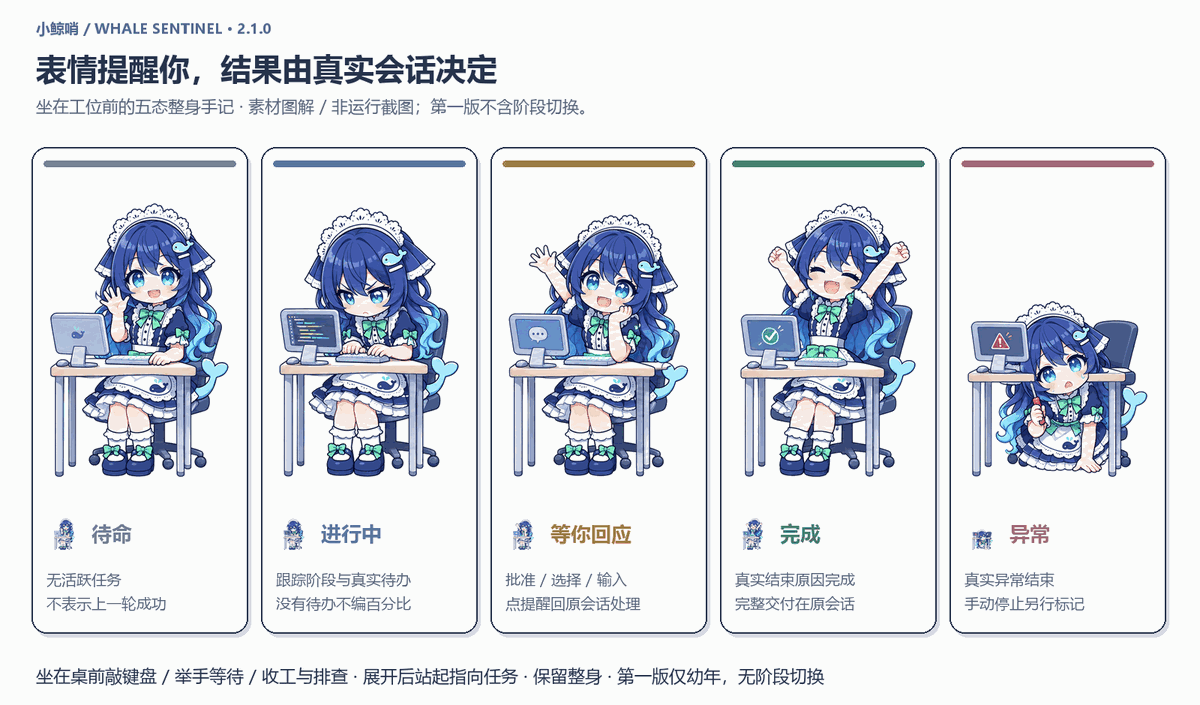
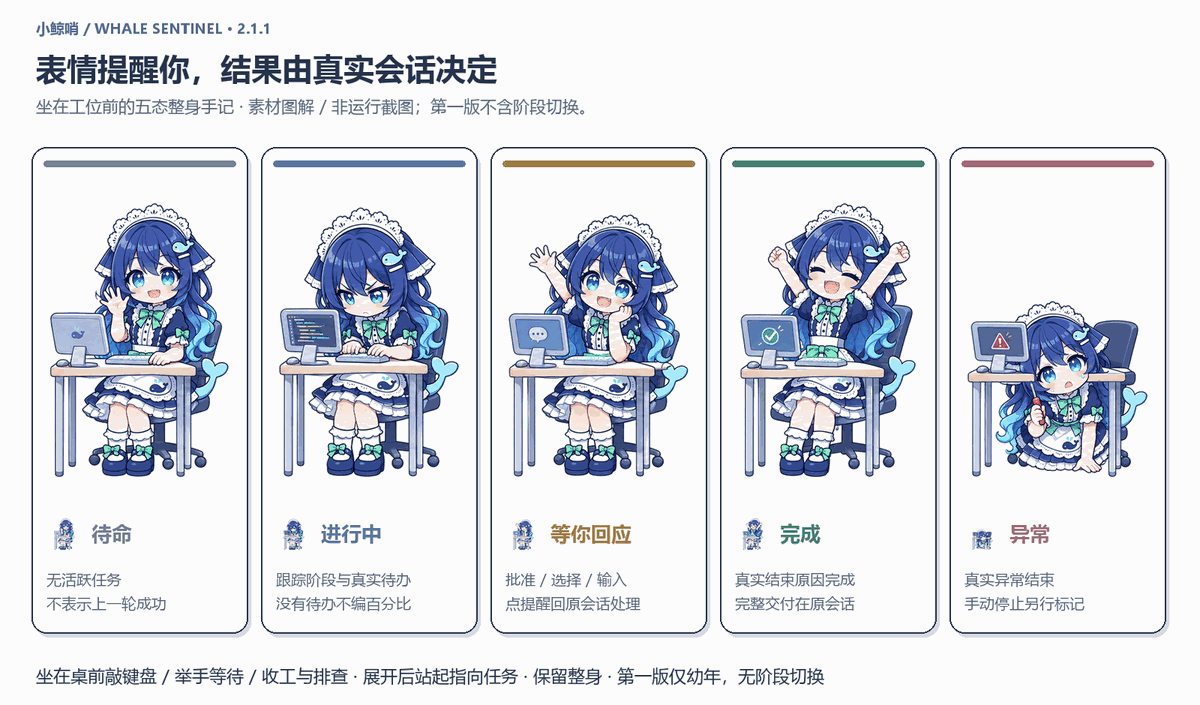
小鲸哨 2.1.1：修复深色主题等待卡浅底浅字，进行中会话不再在最近动态重复

Changed region(s): [[0.8633, 0.5617, 0.8942, 0.5929], [0.5242, 0.4681, 0.555, 0.4993]]

diff --git a/client.js b/client.js
@@ -914,7 +914,7 @@ window.__ModuleLoader__.load({
 .dpg-row-mark[data-kind="waiting"]{background:var(--butter)}
 .dpg-go{display:grid;place-items:center;width:30px;height:30px;border:3px solid var(--ink);border-radius:9px;background:var(--card);color:var(--ink);box-shadow:2px 2px 0 rgba(34,48,79,.26)}
 .dpg-row-title{font-size:14px;font-weight:800;line-height:1.3;word-break:break-word}
-.dpg-task[data-waiting="true"]{background:#FFFBF0}
+.dpg-task[data-waiting="true"]{background:color-mix(in srgb,var(--dsw-alias-bg-layer-1,#FFFBF0) 88%,var(--dsw-alias-state-warn-primary,#FFD25E) 12%)}
 .dpg-meta{display:flex;flex-wrap:wrap;align-items:center;gap:4px 7px;margin-top:5px;font-size:11.5px;font-weight:700;color:var(--muted)}
 .dpg-meta-item{display:inline-flex;align-items:center;gap:4px;min-width:0}
 .dpg-meta-item b{font-weight:700;font-variant-numeric:tabular-nums;overflow:hidden;text-overflow:ellipsis;white-space:nowrap;max-width:126px}
@@ -1040,7 +1040,7 @@ window.__ModuleLoader__.load({
         else meta.push({icon:item.phase==='thinking'?'pulse':'gear',text:item.phase==='thinking'?t('panel.thinking'):t('panel.working')});
         if(Number.isFinite(item.step))meta.push({icon:'step',text:t('panel.step',{step:item.step})});
         if(Number.isFinite(item.since))meta.push({icon:'clock',text:formatDuration(t,Math.max(0,now-item.since))});
-        return h('button',{key:item.sessionId,type:'button',className:'dpg-row dpg-task','data-waiting':item.waiting?'true':'false','data-phase':item.phase,title:t('panel.jump'),'aria-label':(item.title||t('title.untitled'))+' · '+meta.map(m=>m.text).join(' · '),onClick:()=>props.openSession(item.sessionId)},
+        return h('button',{key:item.sessionId,type:'button',className:'dpg-row dpg-task','data-waiting':item.waiting?'true':'false','data-phase':item.phase,'data-session':item.sessionId,title:t('panel.jump'),'aria-label':(item.title||t('title.untitled'))+' · '+meta.map(m=>m.text).join(' · '),onClick:()=>props.openSession(item.sessionId)},
           h('span',{className:'dpg-task-head'},
             h('i',{className:'dpg-row-mark','data-kind':item.waiting?'waiting':'running'}),
             h('span',{className:'dpg-row-title'},item.title||t('title.untitled')),
@@ -1051,10 +1051,15 @@ window.__ModuleLoader__.load({
             h('i',{className:'dpg-bar',role:'progressbar','aria-valuemin':0,'aria-valuemax':100,'aria-valuenow':pct,'aria-label':t('panel.progress',{done:item.todoDone,total:item.todoTotal,percent:pct})},h('b',{style:{transform:'scaleX('+Math.max(0,Math.min(1,item.progress))+')'}})),
             h('span',{className:'dpg-row-pct'},item.todoDone+'/'+item.todoTotal)):null);
       });
-      const rows=state.events.map(event=>{
+      const rows=state.events.filter(event=>{
+        // A session's own start/waiting event is already the active row above;
+        // listing it again reads as a duplicate task. Results are kept.
+        const activeSession=activity.some(item=>item.sessionId===event.sessionId);
+        return !(activeSession&&(event.kind==='running'||event.kind==='waiting'));
+      }).map(event=>{
         const label=t('panel.short.'+event.kind)||t('event.'+event.kind);
         const summary=event.summaryFinal&&event.summary?panelText(event.summary,120):['error','interrupted'].includes(event.kind)?panelText(event.message,120):'';
-        return h('button',{type:'button',key:event.id,className:'dpg-row dpg-log','data-kind':event.kind,disabled:!event.sessionId,title:t('panel.openResult'),onClick:()=>props.openSession(event.sessionId)},
+        return h('button',{type:'button',key:event.id,className:'dpg-row dpg-log','data-kind':event.kind,'data-session':event.sessionId||'',disabled:!event.sessionId,title:t('panel.openResult'),onClick:()=>props.openSession(event.sessionId)},
           h('i',{className:'dpg-glyph','data-kind':event.kind,'aria-hidden':'true'},h(Icon,{name:GLYPH[event.kind]??'dot',size:15})),
           h('span',{className:'dpg-row-body'},
             h('span',{className:'dpg-log-head'},

diff --git a/src/client-panel.js b/src/client-panel.js
@@ -255,7 +255,7 @@
 .dpg-row-mark[data-kind="waiting"]{background:var(--butter)}
 .dpg-go{display:grid;place-items:center;width:30px;height:30px;border:3px solid var(--ink);border-radius:9px;background:var(--card);color:var(--ink);box-shadow:2px 2px 0 rgba(34,48,79,.26)}
 .dpg-row-title{font-size:14px;font-weight:800;line-height:1.3;word-break:break-word}
-.dpg-task[data-waiting="true"]{background:#FFFBF0}
+.dpg-task[data-waiting="true"]{background:color-mix(in srgb,var(--dsw-alias-bg-layer-1,#FFFBF0) 88%,var(--dsw-alias-state-warn-primary,#FFD25E) 12%)}
 .dpg-meta{display:flex;flex-wrap:wrap;align-items:center;gap:4px 7px;margin-top:5px;font-size:11.5px;font-weight:700;color:var(--muted)}
 .dpg-meta-item{display:inline-flex;align-items:center;gap:4px;min-width:0}
 .dpg-meta-item b{font-weight:700;font-variant-numeric:tabular-nums;overflow:hidden;text-overflow:ellipsis;white-space:nowrap;max-width:126px}
@@ -381,7 +381,7 @@
         else meta.push({icon:item.phase==='thinking'?'pulse':'gear',text:item.phase==='thinking'?t('panel.thinking'):t('panel.working')});
         if(Number.isFinite(item.step))meta.push({icon:'step',text:t('panel.step',{step:item.step})});
         if(Number.isFinite(item.since))meta.push({icon:'clock',text:formatDuration(t,Math.max(0,now-item.since))});
-        return h('button',{key:item.sessionId,type:'button',className:'dpg-row dpg-task','data-waiting':item.waiting?'true':'false','data-phase':item.phase,title:t('panel.jump'),'aria-label':(item.title||t('title.untitled'))+' · '+meta.map(m=>m.text).join(' · '),onClick:()=>props.openSession(item.sessionId)},
+        return h('button',{key:item.sessionId,type:'button',className:'dpg-row dpg-task','data-waiting':item.waiting?'true':'false','data-phase':item.phase,'data-session':item.sessionId,title:t('panel.jump'),'aria-label':(item.title||t('title.untitled'))+' · '+meta.map(m=>m.text).join(' · '),onClick:()=>props.openSession(item.sessionId)},
           h('span',{className:'dpg-task-head'},
             h('i',{className:'dpg-row-mark','data-kind':item.waiting?'waiting':'running'}),
             h('span',{className:'dpg-row-title'},item.title||t('title.untitled')),
@@ -392,10 +392,15 @@
             h('i',{className:'dpg-bar',role:'progressbar','aria-valuemin':0,'aria-valuemax':100,'aria-valuenow':pct,'aria-label':t('panel.progress',{done:item.todoDone,total:item.todoTotal,percent:pct})},h('b',{style:{transform:'scaleX('+Math.max(0,Math.min(1,item.progress))+')'}})),
             h('span',{className:'dpg-row-pct'},item.todoDone+'/'+item.todoTotal)):null);
       });
-      const rows=state.events.map(event=>{
+      const rows=state.events.filter(event=>{
+        // A session's own start/waiting event is already the active row above;
+        // listing it again reads as a duplicate task. Results are kept.
+        const activeSession=activity.some(item=>item.sessionId===event.sessionId);
+        return !(activeSession&&(event.kind==='running'||event.kind==='waiting'));
+      }).map(event=>{
         const label=t('panel.short.'+event.kind)||t('event.'+event.kind);
         const summary=event.summaryFinal&&event.summary?panelText(event.summary,120):['error','interrupted'].includes(event.kind)?panelText(event.message,120):'';
-        return h('button',{type:'button',key:event.id,className:'dpg-row dpg-log','data-kind':event.kind,disabled:!event.sessionId,title:t('panel.openResult'),onClick:()=>props.openSession(event.sessionId)},
+        return h('button',{type:'button',key:event.id,className:'dpg-row dpg-log','data-kind':event.kind,'data-session':event.sessionId||'',disabled:!event.sessionId,title:t('panel.openResult'),onClick:()=>props.openSession(event.sessionId)},
           h('i',{className:'dpg-glyph','data-kind':event.kind,'aria-hidden':'true'},h(Icon,{name:GLYPH[event.kind]??'dot',size:15})),
           h('span',{className:'dpg-row-body'},
             h('span',{className:'dpg-log-head'},

diff --git a/release-2.1.1.js b/release-2.1.1.js
@@ -1,3 +1,9 @@
+// 2.1.1: fix the waiting card in themed panels and stop repeating active
+// sessions in recent activity.
+// - The waiting card used a fixed cream surface while text followed theme
+//   tokens, so dark themes rendered light text on light cream.
+// - A session's own start/waiting event was listed again under recent
+//   activity; it is now filtered while terminal results are kept.
 // 2.1.0: radar and multi-window release.
 // - Workspace label and delegated-subagent activity are aggregated into the root
 //   row, so a running child is visible without becoming its own notification.
@@ -15,9 +21,9 @@
 // - A toast that cannot carry a click target is delivered as notification-only.
 import {readFileSync,writeFileSync,mkdirSync,renameSync,unlinkSync,readdirSync} from 'node:fs';
 import {join} from 'node:path';import {homedir} from 'node:os';import {createHash,randomUUID} from 'node:crypto';
-import {initialState,foldTask} from './task-state.js?release=2.1.0';
-import {createTaskHost} from './host.js?release=2.1.0';
-import {createNativeBridge} from './native.js?release=2.1.0';
+import {initialState,foldTask} from './task-state.js?release=2.1.1';
+import {createTaskHost} from './host.js?release=2.1.1';
+import {createNativeBridge} from './native.js?release=2.1.1';
 import {createWindowsActivation} from './win-activation.js';
 import {createActivationQueue} from './activation-queue.js';
 export const inject=['agents','sessionProjections','webServer','connection'];

diff --git a/host.js b/host.js
@@ -81,7 +81,7 @@ export function createTaskHost(ctx, projection, native, {now=()=>Date.now(),pref
   // Business stats only: a channel test is a diagnostic, never a finished task.
   const business=history.filter(e=>e.test!==true);
   const stats={active:active.length,running:active.filter(x=>x.running).length,waiting:active.filter(x=>x.waiting).length,children:active.reduce((n,x)=>n+x.children.running,0),doneToday:business.filter(e=>e.kind==='done'&&Number.isFinite(e.at)&&at-e.at<86400000).length,events:business.length};
-  return {boot,version:'2.1.0',enabled,settings:settings(),rev:`${boot}:${revision}`,seq:serial,at,active,stats,events:[...history],notices:queue.list(),delivery:[...delivery],focusRequest:focusQueue[0]?{id:focusQueue[0].id,sessionId:focusQueue[0].sessionId}:null,activationReady:activation?.ready===true,lastWake,native:process.platform==='win32'};
+  return {boot,version:'2.1.1',enabled,settings:settings(),rev:`${boot}:${revision}`,seq:serial,at,active,stats,events:[...history],notices:queue.list(),delivery:[...delivery],focusRequest:focusQueue[0]?{id:focusQueue[0].id,sessionId:focusQueue[0].sessionId}:null,activationReady:activation?.ready===true,lastWake,native:process.platform==='win32'};
  }
  function wording(n){
   const formatted=formatNotice(n);

diff --git a/index.js b/index.js
@@ -1,1 +1,1 @@
-export {inject,apply} from './release-2.1.0.js';
+export {inject,apply} from './release-2.1.1.js';

diff --git a/docs/build-diagrams.py b/docs/build-diagrams.py
@@ -48,7 +48,7 @@ def lines(d, xy, value, width, n=24, color=MUTED, bold=False, gap=9):
 def base(title, subtitle, h):
     im = Image.new('RGB', (1600, h), BG)
     d = ImageDraw.Draw(im)
-    text(d, (48, 24), '小鲸哨 / WHALE SENTINEL · 2.1.0', 19, BLUE, True)
+    text(d, (48, 24), '小鲸哨 / WHALE SENTINEL · 2.1.1', 19, BLUE, True)
     text(d, (48, 63), title, 41, INK, True)
     text(d, (48, 126), subtitle, 22, MUTED)
     return im, d

diff --git a/docs/ACCEPTANCE.md b/docs/ACCEPTANCE.md
@@ -1,107 +1,60 @@
-# 小鲸哨 2.1.0 · 验收记录
+# 小鲸哨 2.1.1 · 验收记录
 
 ## 本轮范围
 
-2.1.0 在 2.0.0 可靠性基础上补齐雷达信息、多窗口行为，并完成客户端结构化与体积优化，不改角色形象：
+2.1.1 修复 2.1.0 暴露的两个显示问题，并保留 2.0 / 2.1.0 的全部能力：
 
-1. 每个任务显示**工作区名**，并把运行中的**子代理个数**聚合到主任务行；子代理不单独成行、不发提醒；
-2. **presence 按窗口记录**：任一窗口可见且聚焦即视为前台，隐藏窗口不能覆盖聚焦窗口；
-3. **长任务提醒**可选开启，同一轮超过 15 分钟只提醒一次，子代理不触发；
-4. 导航成功/失败回传 `diagnostic` 轨迹；
-5. 客户端源码拆为 `src/client-core.js`、`src/client-text.js`、`src/client-panel.js`，`client.js` 由构建脚本生成，内联立绘由 `assets/` 生成；页面立绘从 384×576 缩到 **288×432 / 160 色**，`client.js` 从 **698,747 字节降到 556,403 字节（−20%）**；
-6. 面板底色、文字、边框、状态点改用 **DSH 主题 token**（`--dsw-alias-*`），不再依赖系统 `prefers-color-scheme`；
-7. 新增 `scripts/verify-release.mjs`、`scripts/build-client.mjs --check` 两道门禁，版本、入口、导出、文档、素材与构建产物必须一致。
+1. **等待卡配色**：等待中的任务卡原来固定使用浅奶油底 `#FFFBF0`，而文字已改为主题 token；深色主题下变成浅底浅字。现在改为「宿主表面色 88% + 宿主警告色 12%」的混合，深色是深橄榄底、浅色是暖奶油底，文字始终跟随主题。
+2. **进行中不再重复出现在最近动态**：同一个会话的 `开始` / `等待` 事件本来由上方活动行表达，历史区再列一次会像重复任务。现在只过滤「该会话仍在活动且事件是 running/waiting」的行，结束结果（完成/异常/停止）仍然保留。
+3. 版本推进到 2.1.1；其余为 2.1.0 已交付能力（工作区与子任务聚合、多窗口 presence、长任务提醒、导航诊断、DSH 主题 token、客户端拆分与体积优化、发布与构建门禁）。
 
 未修改 DSH 核心或安装包。
 
 ## 自动化
 
-`node check.mjs` → **161 tests / 161 pass / 0 fail**，随后门禁通过：
+`node check.mjs` → **165 tests / 165 pass / 0 fail**，随后门禁通过：
 
 ```
-PASS release 2.1.0: entry, exports, files, index, host, docs and artwork agree
+PASS release 2.1.1: entry, exports, files, index, host, docs and artwork agree
 PASS client build: parts and generated artwork agree
 PASS syntax, manifest distribution, icon size, five whole-body PNG states and notification assets
 ```
 
-本轮新增/更新的门禁：
+本轮新增门禁：
 
-- 子会话只聚合到父行；子会话不产生通知；
-- 任一聚焦窗口压制原生通知，隐藏窗口不能清除该状态；
-- 长任务默认关闭、每轮一次、子代理不触发；
-- `diagnostic` 只接受两个导航阶段并写入轨迹；
-- 终态回执一小时后清理，pending 不误删；
-- 客户端与宿主纯文本规则逐字符对账；
-- 页面立绘 288×432、透明边界安全、内联逐字节一致、内联预算 600KB；
-- 浅色与深色主题的混合比例固定，并按宿主 token 值校验正文对比度 ≥ 7:1、次要文字 ≥ 4.5:1；
-- `client.js` 必须由 `src/` 与素材重建得到，过期即失败；
-- 版本一致性：唯一 `release-2.1.0.js`，导出、`index.js`、host 版本、文档、WebP 清单一致。
+- 等待卡必须使用主题表面色 + 警告色混合，禁止硬编码浅色底；
+- 活动会话的 running/waiting 事件不得再出现在历史行；结束结果必须保留；
+- 气泡仍对真实等待事件作出反应（过滤只影响列表，不影响提醒）；
+- 行元素暴露 `data-session`，便于真机核对是否重复。
 
-## 真实页面读数
-
-通过临时探针插件在已连接的 DSH 页面执行（探针已卸载）：
+## 真实页面读数（2.1.1）
 
 | 检查 | 实际结果 |
 | --- | --- |
-| 运行版本 | `2.1.0` |
-| 立绘尺寸 | 浏览器解码 `288×432` |
-| 面板 | 打开后 330px，关闭后消失 |
-| 任务行 | 含 `workspace`、`children`；实测 `workspace: "default-workspace"` |
-| 统计 | `{active:3, running:3, children:0…}` 口径分离；子会话计入 children |
-| 长任务开关 | 写入后回读 `true`，随后恢复关闭 |
-| 导航诊断 | `navigation-success` 出现在 delivery[0] |
-| 主题（当前为深色） | 宿主 token 在 `body` 上：`bg-layer-1 #232324`、`label-primary #f9fafb`；面板底色 `≈#393633`、文字 `#f9fafb`，对比约 **11.5:1** |
-| 旧 OS 深色规则 | 已不存在（`osDarkRule: false`） |
-| 窄屏规则 | 存在（`max-width:520px`） |
+| 运行版本 | `2.1.1` |
+| 活动任务 / 历史行 | 4 个活动任务、1 条历史行（唯一保留的是结束结果，活动会话的开始/等待已被去重） |
+| 重复检测 | `duplicates: 0` |
+| 等待卡（深色主题） | 计算底色 `srgb(0.236,0.195,0.129) ≈ #3C3221`，文字 `#f9fafb`，对比约 **12.2:1** |
+| 主题来源 | 宿主 token 在 `body`：`bg-layer-1 #232324`、`label-primary #f9fafb`；无 `prefers-color-scheme` 分支 |
+| 面板 | 330px 可开可关 |
 
-## 发布包解包自检
+等待卡样本是面板内同一选择器的临时元素（当时没有真实等待任务），用于量取实际计算色；去重数字来自真实 DOM 行。
 
-`npm pack` 后解压到临时目录，在解包目录内直接运行 `node check.mjs`：
+## 历史证据（2.1.0 起）
 
-```
-extracted=77 files
-# pass 161 / # fail 0
-PASS release 2.1.0 ...
-PASS client build ...
-PASS syntax, manifest ...
-exit=0
-```
-
-说明发布包不依赖工作区的其他文件即可通过全部自检。
-
-## 双实例与中文路径（注册表级实测）
-
-用两个临时协议、两个含中文的临时 spool 目录执行 `win-activation.ps1`，结束后注销并删除测试目录：
-
-| 检查 | 结果 |
-| --- | --- |
-| 两个协议分别注册 | 均 `exit 0` |
-| 后注册不删除先注册 | 两个键同时存在，`oneProtocolEach: true` |
-| 真实插件协议未受影响 | `realKept: true` / `realStillThere: true` |
-| 重复注册 | `exit 0`（幂等） |
-| 中文路径启动器 | UTF-16 BOM，脚本内路径与目录完全一致 |
-| 中文路径点击 | 写出 `<token>.click`，内容与 token 一致 |
-| 清理 | 两个测试键均已删除 |
-
-脚本保留为 `scripts/verify-activation.ps1`（开发验证用，不随插件分发）。
-
-## 主题对比度（按宿主官方色值计算）
-
-从安装包内的主题定义读取 alias 与静态色值（light: `#fff` / `#0f1115` / `#61666b`；dark: `#232324` / `#f9fafb` / `#cfd3d6`），按插件实际混合比例计算：
-
-| 主题 | 面板底色 | 主文字对比 | 次要文字对比 | 卡片主文字 |
-| --- | --- | --- | --- | --- |
-| 浅色 | `#fffcf9` | **18.49:1** | **5.67:1** | 17.30:1 |
-| 深色 | `#393634` | **11.47:1** | **7.96:1** | 8.81:1 |
+- 发布包解包自检：77 个文件，解包目录内 `check.mjs` 全过。
+- 双实例与中文路径：两个临时协议并存、后注册不删除先注册、真实协议未受影响、中文目录启动器为 UTF-16 且能写出点击文件；测试键已清理。
+- 主题对比度（宿主官方色值计算）：浅色正文 18.49:1、次要 5.67:1；深色正文 11.47:1、次要 7.96:1。
+- 页面立绘 288×432、`client.js` 556,911 字节。
 
 ## 边界
 
-- **浅色未切换实测**：浅色分支用宿主官方 token 值与插件混合公式计算，未在浅色主题下看实际观感。
-- **未在真实运行的两个 DSH 实例间点通知**：双实例只做到注册表与启动器级实测；共享协议与心跳另有单元测试。
-- **未做真实横幅点击**：只验证了启动器写出可消费的点击文件，页面侧认领/导航由自动化覆盖。
-- **520px 以下视口未实测**：探针运行在 1707px 宽视口。
+- **浅色未切换实测**：浅色分支按宿主官方 token 值计算，未在浅色主题下看实际观感。
+- **等待卡样本是合成元素**：当时没有真实等待任务，量的是同一 CSS 规则的计算值，不是真实任务卡外观。
+- **未在真实运行的两个 DSH 实例间点通知**：双实例做到注册表与启动器级实测。
+- **未做真实横幅点击**；**520px 以下未实测**。
 - 以上未做项不得表述为“已验收通过”。
 
 ## 结论
 
-2.1.0 完成雷达信息、多窗口判定、长任务提醒、导航诊断，客户端体积降低 20%，主题改由 DSH token 驱动，发布包、双实例注册与中文路径均有实测或计算证据。剩余真机项（浅色观感、520px、真实双实例点击、系统横幅点击）保持未验证。素材来源与权利见[素材说明](<ARTWORK.md>)与[署名](<../ATTRIBUTION.md>)。
+2.1.1 修掉了深色主题下等待卡不可读、以及活动会话在最近动态重复出现的两个问题，并用门禁防止回退。剩余项仍为：浅色观感、520px、真实双实例点击、系统横幅点击。素材来源与权利见[素材说明](<ARTWORK.md>)与[署名](<../ATTRIBUTION.md>)。

diff --git a/README.md b/README.md
@@ -4,7 +4,7 @@
 
 **看进展，收提醒，点一下回到对应会话。**
 
-面板位于角色左侧、角色贴右下角；两者并排，不互相遮挡。小鲸哨是 DeepSeek Harness（DSH）的非官方任务提醒插件。当前版本 2.1.0：**每个任务会标出所在工作区，子代理的运行个数直接显示在主任务上；多开窗口时只要有一个窗口在前台，就不会重复弹系统通知；可选的长任务提醒每轮只提醒一次；导航成功或失败都会回传诊断。** 2.0 的可靠性能力保留：发送失败自动重试，点击桥不可用时降级为“仅提醒”，多实例不互相破坏点击，设置文件损坏自动恢复默认。看板娘有两种姿态：**收起时坐在工位前办公**（五种任务状态对应五种坐姿与屏幕内容），**展开看板后站到看板旁、一手扶着边框、一手指向任务**。角色提示进行中、待回应和结果，面板读取真实会话事实；不提供年龄阶段切换或换装。
+面板位于角色左侧、角色贴右下角；两者并排，不互相遮挡。小鲸哨是 DeepSeek Harness（DSH）的非官方任务提醒插件。当前版本 2.1.1：**每个任务会标出所在工作区，子代理的运行个数直接显示在主任务上；多开窗口时只要有一个窗口在前台，就不会重复弹系统通知；可选的长任务提醒每轮只提醒一次；导航成功或失败都会回传诊断。进行中的会话不会在“最近动态”里重复出现；等待卡跟随主题配色，不会出现浅底浅字。** 2.0 的可靠性能力保留：发送失败自动重试，点击桥不可用时降级为“仅提醒”，多实例不互相破坏点击，设置文件损坏自动恢复默认。看板娘有两种姿态：**收起时坐在工位前办公**（五种任务状态对应五种坐姿与屏幕内容），**展开看板后站到看板旁、一手扶着边框、一手指向任务**。角色提示进行中、待回应和结果，面板读取真实会话事实；不提供年龄阶段切换或换装。
 
 ![小鲸哨坐姿五态整身素材手册：待命、进行中、等待回应、完成、异常；素材图解，非运行截图](<docs/state-handbook.png>)
 
@@ -35,7 +35,7 @@
 | 进行中条目 | 会话阶段、当前工具、步骤与运行时长；同一行还会显示**工作区名**与**子任务运行数** |
 | 进度条与 `2/5` | 真实待办中完成 2 条、总计 5 条；不是剩余用时或工作量估计 |
 | 长任务提醒 | 默认关闭；开启后，同一轮运行超过 15 分钟提醒一次，不会每轮重复 |
-| 最近动态 | 完成、手动停止、异常等真实结束结果与短摘要；默认显示 3 条，可展开查看更多 |
+| 最近动态 | 完成、手动停止、异常等真实结束结果与短摘要；默认显示 3 条，可展开查看更多。**仍在进行中的会话不会在这里重复列出**；状态仍以「进行中」为准 |
 | 顶部三个数字 | **任务**=当前活动会话数，**运行中**=正在跑的会话数，**已完成**=最近 24 小时真实完成数（按保留的最近 50 条事件统计）；三者来自后台统计，不把会话和事件相加 |
 | 连接提示 | 断线时保留最后状态，并明确提示非实时；**打开会话失败不会被当成断线** |
 
@@ -121,6 +121,6 @@
 - 历史 UI 设计图与探索角色只用于早期过程记录，不作为当前形象基准，随说明图发布也不代表它是运行截图。
 - [历史 1.3 验收记录](<docs/ACCEPTANCE-1.3.md>)与[历史点击链路记录](<docs/NOTIFICATIONS-1.3.2.md>)保留作追溯，不能当作当前版本的验收。
 
-[本轮验收记录](<docs/ACCEPTANCE.md>)记录 `node check.mjs` 的 161 项回归、发布一致性门禁、真实页面读数（版本、工作区与子任务、偏好写入、测试通知隔离、面板开关）与 Windows 点击入口实测。说明图片不是运行截图，程序测量也不替代人眼审美或人耳听感评估。
+[本轮验收记录](<docs/ACCEPTANCE.md>)记录 `node check.mjs` 的 165 项回归、发布一致性门禁、真实页面读数（版本、工作区与子任务、偏好写入、测试通知隔离、面板开关、等待卡对比度与去重）与 Windows 点击入口实测。说明图片不是运行截图，程序测量也不替代人眼审美或人耳听感评估。
 
 小鲸哨为非官方社区作品，与 DeepSeek 无隶属关系。

diff --git a/README.en.md b/README.en.md
@@ -1,4 +1,4 @@
-# Whale Sentinel 2.1.0 · task radar
+# Whale Sentinel 2.1.1 · task radar
 
 > Chinese name: 小鲸哨 (Little Whale Sentinel)
 
@@ -6,7 +6,7 @@
 
 [中文完整说明与图解](<README.md>) · [验收记录](<docs/ACCEPTANCE.md>)
 
-Version 2.1.0 adds radar context and multi-window accuracy: **each task shows its workspace and how many delegated subagents are running; one focused window keeps another hidden window from re-triggering system notifications; an optional long-run nudge fires once per running turn; navigation success and failure are reported back as diagnostics.** The 2.0 reliability guarantees remain: failed reminders retry, a missing click bridge degrades to notification-only, two instances do not break each other's click route, and a corrupt settings file falls back to safe defaults.
+Version 2.1.1 adds radar context and multi-window accuracy: **each task shows its workspace and how many delegated subagents are running; one focused window keeps another hidden window from re-triggering system notifications; an optional long-run nudge fires once per running turn; navigation success and failure are reported back as diagnostics. A live session is no longer repeated in recent activity, and the waiting card follows the theme instead of rendering light text on cream.** The 2.0 reliability guarantees remain: failed reminders retry, a missing click bridge degrades to notification-only, two instances do not break each other's click route, and a corrupt settings file falls back to safe defaults.
 
 The mascot is a child-form character with **two runtime artworks**. While the panel is collapsed she **sits at a small work desk** in five task states: idle waving, typing during a running task, raising a hand while waiting for you, stretching after completion, and troubleshooting from under the desk on error. Opening the panel swaps her for a **standing pose that grips the panel edge and points at the tasks**; closing it switches back. There is no age selector or outfit switching.
 
@@ -33,6 +33,6 @@ On viewports narrower than 520 px the panel keeps every control and the expanded
 
 The expanded pose animates with a gentle whole-body float and a pulse at the pointing hand. It deliberately has no separate blinking or head layer: rotating a clipped copy of the same bitmap tears the silhouette at the cut edge, so that approach was removed.
 
-Current verification: 161 automated tests passed plus a release-consistency gate; the connected page reported version 2.1.0 with workspace labels and subagent counts, a live `activationReady: true`, a channel test that left history and the finished count unchanged, a preference write that read back and could be restored, and a panel that opened at 330 px and closed again. A direct `wscript` invocation of the registered launcher wrote the expected one-time click file. Narrow-viewport and dark-mode rules exist in the stylesheet but were not measured on a 520 px viewport or a dark desktop theme; a real banner click and two-instance parallel run remain unverified. See the [detailed record](<docs/ACCEPTANCE.md>).
+Current verification: 165 automated tests passed plus a release-consistency gate; the connected page reported version 2.1.1 with workspace labels and subagent counts, a live `activationReady: true`, a channel test that left history and the finished count unchanged, a preference write that read back and could be restored, no duplicate live rows in recent activity, and a panel that opened at 330 px and closed again. A direct `wscript` invocation of the registered launcher wrote the expected one-time click file, and the waiting-card tint measured 12.2:1 contrast against theme text in the live dark theme. Narrow-viewport rules exist in the stylesheet but were not measured on a 520 px viewport; a real banner click and two-instance parallel run remain unverified. See the [detailed record](<docs/ACCEPTANCE.md>).
 
 See [artwork provenance](<docs/ARTWORK.md>) and [attribution](<ATTRIBUTION.md>): AI generation or renaming does not remove third-party character/reference rights. This is an unofficial community plugin and is not affiliated with DeepSeek.

diff --git a/ATTRIBUTION.md b/ATTRIBUTION.md
@@ -2,7 +2,7 @@
 
 ## 1. 当前角色素材
 
-小鲸哨 2.1.0 的角色素材以**用户指定的角色形象基准**（工作区 `outputs/whale-relock/mini-three-views.png`）为准：收起时的五态坐姿与展开时抓边指向的五种表情，均使用 `gpt-image-2.6` 以该角色为参考图生图生成，再在本地完成抠图、拆帧、尺寸与运行格式处理。当前只采用幼年形态，无年龄阶段切换或换装。插件名称「小鲸哨」与角色同名不等于角色权利已获得独立确认。
+小鲸哨 2.1.1 的角色素材以**用户指定的角色形象基准**（工作区 `outputs/whale-relock/mini-three-views.png`）为准：收起时的五态坐姿与展开时抓边指向的五种表情，均使用 `gpt-image-2.6` 以该角色为参考图生图生成，再在本地完成抠图、拆帧、尺寸与运行格式处理。当前只采用幼年形态，无年龄阶段切换或换装。插件名称「小鲸哨」与角色同名不等于角色权利已获得独立确认。
 
 素材保留了蓝发鲸鱼娘、女仆衣装、鲸尾及相关装饰等社区角色衍生特征。**不将这批图描述为“完全原创、自有且不受第三方授权限制”**，也不声称重新生成、换衣或改名即可解除既有角色、参考图或衍生作品的权利义务。
 

diff --git a/docs/ARTWORK.md b/docs/ARTWORK.md
@@ -1,4 +1,4 @@
-# 鲸哨 2.1.0 · 素材说明
+# 鲸哨 2.1.1 · 素材说明
 
 **当前版本只用幼年形态「小鲸哨」，不提供年龄切换或换装。** 她有**两套运行素材**：看板收起时坐在工位前办公，看板展开时站到看板旁、一手抓住边框、一手指向任务。本文不把历史探索图或生成过程当成用户验收。
 
@@ -96,7 +96,7 @@
 
 ## 验收摘要
 
-完整证据见[验收记录](<ACCEPTANCE.md>)。要点：`node check.mjs` 161 项全部通过；真实页面版本 2.1.0、坐姿素材 ID `whale-it-seated-v1`、五态解码正常；两个尺寸滑块互不影响。说明图片不是运行截图，程序测量也不替代人眼审美或人耳听感评估。
+完整证据见[验收记录](<ACCEPTANCE.md>)。要点：`node check.mjs` 165 项全部通过；真实页面版本 2.1.1、坐姿素材 ID `whale-it-seated-v1`、五态解码正常；两个尺寸滑块互不影响。说明图片不是运行截图，程序测量也不替代人眼审美或人耳听感评估。
 
 [返回使用说明](<../README.md>)
 

diff --git a/docs/MAINTAINING.md b/docs/MAINTAINING.md
@@ -1,6 +1,6 @@
 # 鲸哨文档与素材维护
 
-当前版本：2.1.0。两套运行素材：坐姿 `whale-it-seated-v1`（`assets/fish-*.png`）与展开态 `buddy-*.webp`（记录在 `assets/artwork.json` 的 `buddy` 字段；WebP 必须同时出现在 `package.json` 的 `files` 中）。
+当前版本：2.1.1。两套运行素材：坐姿 `whale-it-seated-v1`（`assets/fish-*.png`）与展开态 `buddy-*.webp`（记录在 `assets/artwork.json` 的 `buddy` 字段；WebP 必须同时出现在 `package.json` 的 `files` 中）。
 
 ## 唯一事实来源
 
